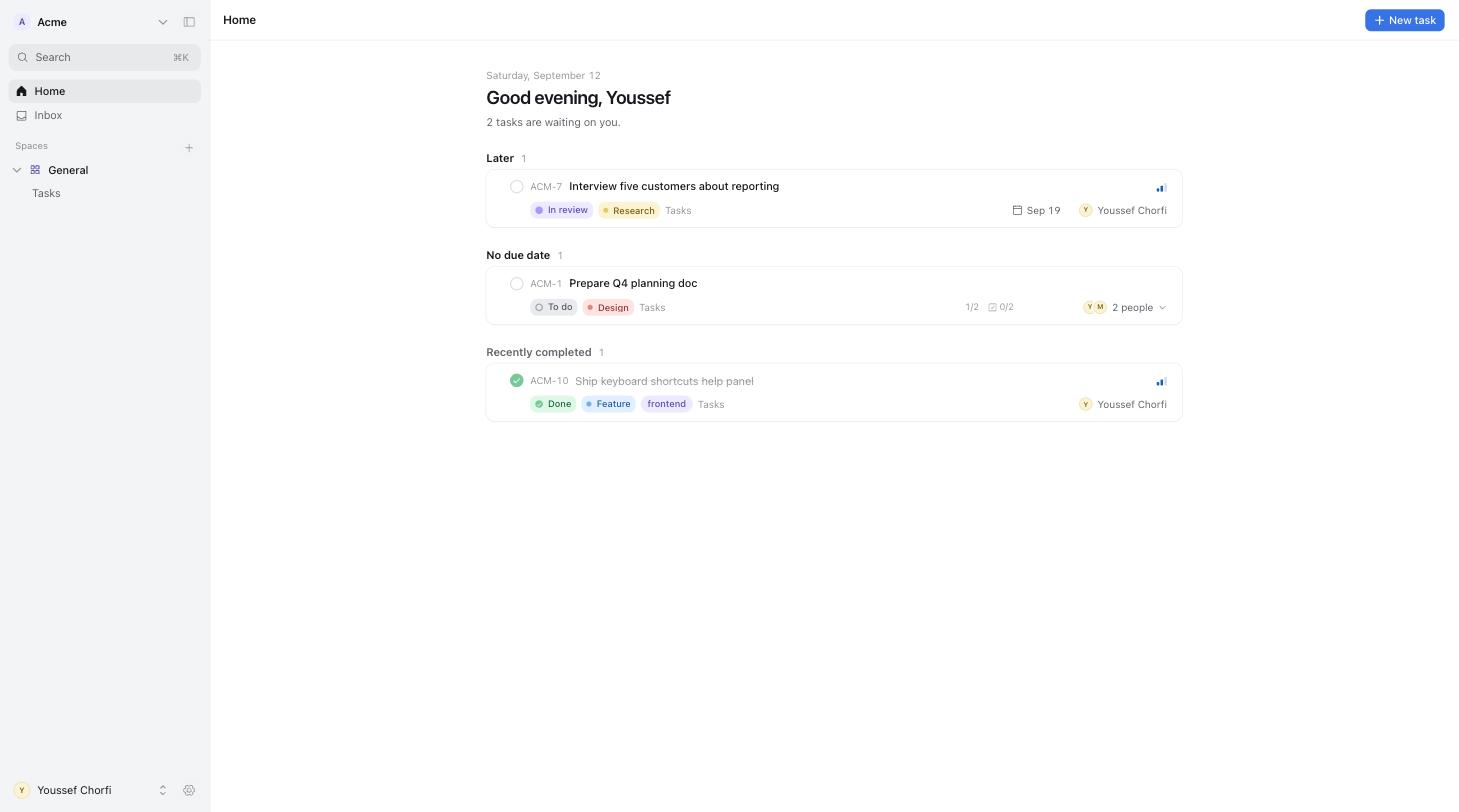
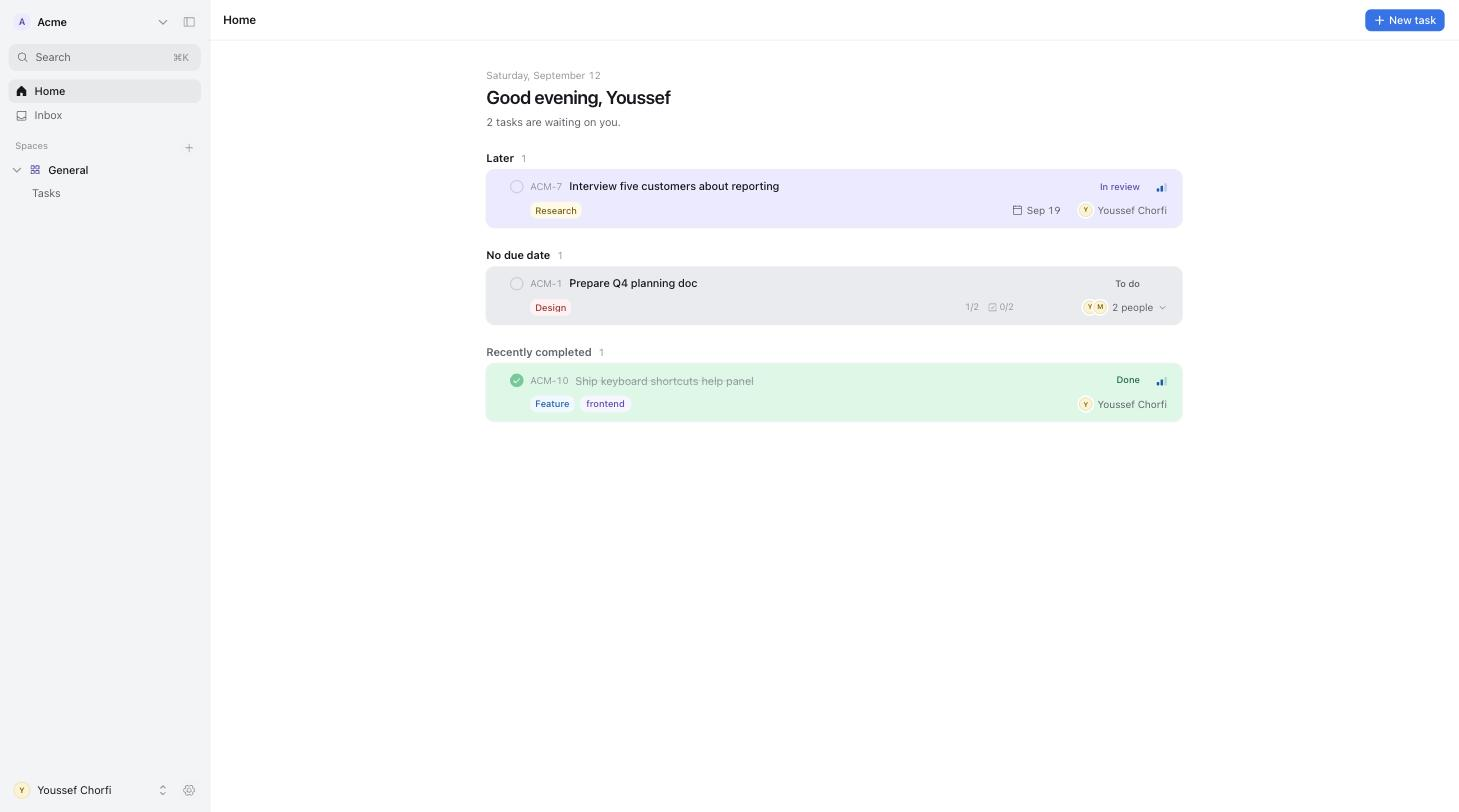
Task cards take their status colour; no status pill

diff --git a/apps/web/src/components/tasks/task-row.tsx b/apps/web/src/components/tasks/task-row.tsx
@@ -9,7 +9,7 @@ import { TagChip } from "./tag-chip";
 import { CategoryChip } from "./category-chip";
 import { DueLabel } from "./due-label";
 import { PriorityIcon } from "./priority-icon";
-import { StatusDot } from "./status-dot";
+import { asPastel } from "@/components/common/pastel";
 import { AssigneeLabel, AssigneePicker } from "./pickers/assignee-picker";
 import { DueDatePicker } from "./pickers/due-date-picker";
 import { PriorityPicker } from "./pickers/priority-picker";
@@ -21,7 +21,7 @@ import { cn } from "@/lib/utils";
 
 export type TaskRowProps = {
   task: TaskRowType;
-  /** Show the status pill (for views that aren't grouped by status). */
+  /** Name the status on the card (for views that aren't grouped by status). */
   showStatus?: boolean;
   /** Show which list the task belongs to (Home, search). */
   listName?: string;
@@ -55,6 +55,7 @@ export const TaskRow = forwardRef<HTMLDivElement, TaskRowProps>(function TaskRow
   const tags = task.task_tags.map((t) => t.tags).filter((t): t is NonNullable<typeof t> => !!t);
   const hasAssignees = task.task_assignees.length > 0;
   const recurrence = parseRecurrence(task.recurrence);
+  const tone = asPastel(status?.color);
 
   return (
     <div
@@ -67,15 +68,17 @@ export const TaskRow = forwardRef<HTMLDivElement, TaskRowProps>(function TaskRow
         if (e.key === "Enter" && e.target === e.currentTarget) openTask(task.id);
       }}
       className={cn(
-        "group/row relative flex flex-col gap-1 rounded-lg bg-surface py-2 pl-1 pr-3 text-[13px] shadow-card outline-none transition-shadow",
+        "group/row relative flex flex-col gap-1 rounded-lg py-2 pl-1 pr-3 text-[13px] shadow-card outline-none transition-shadow",
+        status ? `pastel-fill-${tone}` : "bg-surface",
         "hover:shadow-float focus-visible:ring-3 focus-visible:ring-ring/40",
         dragging && "opacity-30",
         overlay && "shadow-float",
         className,
       )}
       data-task-id={task.id}
+      data-tinted={status ? "" : undefined}
     >
-      {/* Line 1: check, number, title, priority */}
+      {/* Line 1: check, number, title, status, priority */}
       <div className="flex items-center gap-2">
         <div className="flex w-4 shrink-0 items-center justify-center self-stretch">
           {dragHandleProps && canEdit ? (
@@ -107,8 +110,7 @@ export const TaskRow = forwardRef<HTMLDivElement, TaskRowProps>(function TaskRow
             listId={task.list_id}
             disabled={!canEdit}
             trigger={
-              <button type="button" className={cn("flex h-5 shrink-0 items-center gap-1.5 rounded-md px-1.5 text-[11px] font-medium", `pastel-${status.color}`)} onClick={(e) => e.stopPropagation()}>
-                <StatusDot color={status.color} category={status.category} size={9} />
+              <button type="button" className={cn("flex h-5 shrink-0 items-center rounded-md px-1.5 text-[11px] font-medium hover:bg-surface/70", `pastel-text-${tone}`)} onClick={(e) => e.stopPropagation()}>
                 {status.name}
               </button>
             }
@@ -121,7 +123,7 @@ export const TaskRow = forwardRef<HTMLDivElement, TaskRowProps>(function TaskRow
           trigger={
             <button
               type="button"
-              className={cn("flex size-6 shrink-0 items-center justify-center rounded-md hover:bg-muted", task.priority === "none" && "opacity-0 group-hover/row:opacity-100 focus-visible:opacity-100")}
+              className={cn("flex size-6 shrink-0 items-center justify-center rounded-md hover:bg-surface/70", task.priority === "none" && "opacity-0 group-hover/row:opacity-100 focus-visible:opacity-100")}
               onClick={(e) => e.stopPropagation()}
               aria-label="Set priority"
             >
@@ -178,7 +180,7 @@ export const TaskRow = forwardRef<HTMLDivElement, TaskRowProps>(function TaskRow
             trigger={
               <button
                 type="button"
-                className={cn("flex h-6 items-center gap-1 rounded-md px-1.5 hover:bg-muted", !task.due_date && "text-ink-3 opacity-0 group-hover/row:opacity-100 focus-visible:opacity-100")}
+                className={cn("flex h-6 items-center gap-1 rounded-md px-1.5 hover:bg-surface/70", !task.due_date && "text-ink-3 opacity-0 group-hover/row:opacity-100 focus-visible:opacity-100")}
                 onClick={(e) => e.stopPropagation()}
                 aria-label="Set due date"
               >
@@ -201,7 +203,7 @@ export const TaskRow = forwardRef<HTMLDivElement, TaskRowProps>(function TaskRow
             trigger={
               <button
                 type="button"
-                className={cn("flex h-6 min-w-0 max-w-44 items-center gap-1 rounded-md px-1.5 hover:bg-muted", !hasAssignees && "text-ink-3 opacity-0 group-hover/row:opacity-100 focus-visible:opacity-100")}
+                className={cn("flex h-6 min-w-0 max-w-44 items-center gap-1 rounded-md px-1.5 hover:bg-surface/70", !hasAssignees && "text-ink-3 opacity-0 group-hover/row:opacity-100 focus-visible:opacity-100")}
                 onClick={(e) => e.stopPropagation()}
                 aria-label="Assign"
               >

diff --git a/apps/web/src/app/globals.css b/apps/web/src/app/globals.css
@@ -10,6 +10,9 @@
    borders, and a family of pastel accents for metadata. Exactly two "hard"
    colours exist: --action (blue) for the primary action on a screen and
    --destructive (red) for irreversible or urgent things.
+   Task cards are filled with their status colour (.pastel-fill-*); chips on
+   them use .pastel-chip so a same-hue chip still reads. Group containers and
+   board columns stay neutral so the cards carry the colour.
    ------------------------------------------------------------------------ */
 
 @theme inline {
@@ -257,15 +260,15 @@
 
 @layer utilities {
   /* Pastel utilities: .pastel-sky sets bg + fg; .pastel-dot-sky paints a dot. */
-  .pastel-gray { background: var(--pastel-gray-bg); color: var(--pastel-gray-fg); }
-  .pastel-rose { background: var(--pastel-rose-bg); color: var(--pastel-rose-fg); }
-  .pastel-peach { background: var(--pastel-peach-bg); color: var(--pastel-peach-fg); }
-  .pastel-butter { background: var(--pastel-butter-bg); color: var(--pastel-butter-fg); }
-  .pastel-mint { background: var(--pastel-mint-bg); color: var(--pastel-mint-fg); }
-  .pastel-aqua { background: var(--pastel-aqua-bg); color: var(--pastel-aqua-fg); }
-  .pastel-sky { background: var(--pastel-sky-bg); color: var(--pastel-sky-fg); }
-  .pastel-lavender { background: var(--pastel-lavender-bg); color: var(--pastel-lavender-fg); }
-  .pastel-blush { background: var(--pastel-blush-bg); color: var(--pastel-blush-fg); }
+  .pastel-gray { --pastel-bg: var(--pastel-gray-bg); background: var(--pastel-bg); color: var(--pastel-gray-fg); }
+  .pastel-rose { --pastel-bg: var(--pastel-rose-bg); background: var(--pastel-bg); color: var(--pastel-rose-fg); }
+  .pastel-peach { --pastel-bg: var(--pastel-peach-bg); background: var(--pastel-bg); color: var(--pastel-peach-fg); }
+  .pastel-butter { --pastel-bg: var(--pastel-butter-bg); background: var(--pastel-bg); color: var(--pastel-butter-fg); }
+  .pastel-mint { --pastel-bg: var(--pastel-mint-bg); background: var(--pastel-bg); color: var(--pastel-mint-fg); }
+  .pastel-aqua { --pastel-bg: var(--pastel-aqua-bg); background: var(--pastel-bg); color: var(--pastel-aqua-fg); }
+  .pastel-sky { --pastel-bg: var(--pastel-sky-bg); background: var(--pastel-bg); color: var(--pastel-sky-fg); }
+  .pastel-lavender { --pastel-bg: var(--pastel-lavender-bg); background: var(--pastel-bg); color: var(--pastel-lavender-fg); }
+  .pastel-blush { --pastel-bg: var(--pastel-blush-bg); background: var(--pastel-bg); color: var(--pastel-blush-fg); }
 
   .pastel-dot-gray { background: var(--pastel-gray-dot); }
   .pastel-dot-rose { background: var(--pastel-rose-dot); }
@@ -286,6 +289,21 @@
   .pastel-text-sky { color: var(--pastel-sky-fg); }
   .pastel-text-lavender { color: var(--pastel-lavender-fg); }
   .pastel-text-blush { color: var(--pastel-blush-fg); }
+
+  /* Chips on a tinted card sit on a paler version of their colour, so a chip
+     in the same hue as the card stays visible. */
+  [data-tinted] .pastel-chip { background: color-mix(in oklch, var(--pastel-bg) 45%, var(--surface)); }
+
+  /* Task cards: the card itself takes its status colour (text stays ink) */
+  .pastel-fill-gray { background: var(--pastel-gray-bg); }
+  .pastel-fill-rose { background: var(--pastel-rose-bg); }
+  .pastel-fill-peach { background: var(--pastel-peach-bg); }
+  .pastel-fill-butter { background: var(--pastel-butter-bg); }
+  .pastel-fill-mint { background: var(--pastel-mint-bg); }
+  .pastel-fill-aqua { background: var(--pastel-aqua-bg); }
+  .pastel-fill-sky { background: var(--pastel-sky-bg); }
+  .pastel-fill-lavender { background: var(--pastel-lavender-bg); }
+  .pastel-fill-blush { background: var(--pastel-blush-bg); }
 
   /* Group containers: a light wash of the group's colour */
   .pastel-wash-gray { background: color-mix(in oklch, var(--pastel-gray-bg) 55%, var(--surface)); }

diff --git a/apps/web/src/components/tasks/list-view.tsx b/apps/web/src/components/tasks/list-view.tsx
@@ -26,7 +26,7 @@ import { useMoveTask } from "@/lib/queries/tasks";
 import { useUi, type ListGroupBy } from "@/stores/ui";
 import { TaskRow } from "./task-row";
 import { StatusDot } from "./status-dot";
-import { ColorDot, asPastel } from "@/components/common/pastel";
+import { ColorDot } from "@/components/common/pastel";
 import { InlineTaskComposer } from "./inline-task-composer";
 import { NO_STATUS, findContainer, groupTasks, positionAt } from "./dnd";
 import { Button } from "@/components/ui/button";
@@ -178,7 +178,7 @@ export function ListView({ tasks, listId, groupBy = "status" }: { tasks: TaskRow
         ) : null}
       </div>
       <DragOverlay dropAnimation={{ duration: 160, easing: "cubic-bezier(0.22, 1, 0.36, 1)" }}>
-        {activeTask ? <TaskRow task={activeTask} overlay className="w-[min(720px,90vw)]" /> : null}
+        {activeTask ? <TaskRow task={activeTask} overlay showStatus={groupBy === "category"} className="w-[min(720px,90vw)]" /> : null}
       </DragOverlay>
     </DndContext>
   );
@@ -219,7 +219,7 @@ function Group({
   return (
     <section
       ref={setNodeRef}
-      className={cn("mx-3 mb-3 flex flex-col rounded-xl p-2 transition-shadow", `pastel-wash-${asPastel(color)}`, isOver && "ring-2 ring-action/30")}
+      className={cn("mx-3 mb-3 flex flex-col rounded-xl bg-muted/60 p-2 transition-shadow", isOver && "ring-2 ring-action/30")}
     >
       <header className="group/head flex h-8 items-center gap-2 px-1.5">
         <button
@@ -261,7 +261,7 @@ function Group({
           <div className="flex min-h-2 flex-col gap-1.5">
             {ids.map((tid) => {
               const t = tasksById.get(tid);
-              return t ? <SortableRow key={tid} task={t} /> : null;
+              return t ? <SortableRow key={tid} task={t} showStatus={groupBy === "category"} /> : null;
             })}
           </div>
         </SortableContext>
@@ -283,8 +283,8 @@ function Group({
   );
 }
 
-function SortableRow({ task }: { task: TaskRowType }) {
+function SortableRow({ task, showStatus }: { task: TaskRowType; showStatus?: boolean }) {
   const { attributes, listeners, setNodeRef, transform, transition, isDragging } = useSortable({ id: task.id });
   const style: React.CSSProperties = { transform: CSS.Translate.toString(transform), transition };
-  return <TaskRow ref={setNodeRef} task={task} style={style} dragging={isDragging} dragHandleProps={{ ...attributes, ...listeners } as React.HTMLAttributes<HTMLButtonElement>} />;
+  return <TaskRow ref={setNodeRef} task={task} showStatus={showStatus} style={style} dragging={isDragging} dragHandleProps={{ ...attributes, ...listeners } as React.HTMLAttributes<HTMLButtonElement>} />;
 }

diff --git a/apps/web/src/components/tasks/board-view.tsx b/apps/web/src/components/tasks/board-view.tsx
@@ -176,7 +176,7 @@ function Column({
       </header>
       <div
         ref={setNodeRef}
-        className={cn("flex min-h-0 flex-1 flex-col gap-2 overflow-y-auto rounded-xl p-2 transition-shadow scrollbar-thin", `pastel-wash-${asPastel(color)}`, isOver && "ring-2 ring-action/30")}
+        className={cn("flex min-h-0 flex-1 flex-col gap-2 overflow-y-auto rounded-xl bg-muted/60 p-2 transition-shadow scrollbar-thin", isOver && "ring-2 ring-action/30")}
       >
         <SortableContext items={ids} strategy={verticalListSortingStrategy}>
           {ids.map((tid) => {
@@ -201,7 +201,9 @@ function SortableCard({ task }: { task: TaskRowType }) {
 
 export function Card({ task, overlay }: { task: TaskRowType; overlay?: boolean }) {
   const { workspace } = useWorkspace();
+  const { byId } = useSpaceStatuses(task.list_id);
   const openTask = useOpenTask();
+  const status = task.status_id ? byId.get(task.status_id) : undefined;
   const done = !!task.completed_at;
   const tags = task.task_tags.map((t) => t.tags).filter((t): t is NonNullable<typeof t> => !!t);
   const subTotal = task.subtasks?.length ?? 0;
@@ -218,9 +220,11 @@ export function Card({ task, overlay }: { task: TaskRowType; overlay?: boolean }
       onClick={() => openTask(task.id)}
       onKeyDown={(e) => e.key === "Enter" && openTask(task.id)}
       className={cn(
-        "flex cursor-default flex-col gap-2 rounded-lg bg-surface p-3 text-[13px] shadow-card outline-none transition-shadow hover:shadow-float focus-visible:ring-3 focus-visible:ring-ring/40",
+        "flex cursor-default flex-col gap-2 rounded-lg p-3 text-[13px] shadow-card outline-none transition-shadow hover:shadow-float focus-visible:ring-3 focus-visible:ring-ring/40",
+        status ? `pastel-fill-${asPastel(status.color)}` : "bg-surface",
         overlay && "w-[256px] rotate-1 shadow-float",
       )}
+      data-tinted={status ? "" : undefined}
     >
       <div className="flex items-start gap-2">
         <span className={cn("min-w-0 flex-1 leading-snug", done && "text-ink-3 line-through")}>{task.title}</span>

diff --git a/apps/web/src/components/tasks/calendar-view.tsx b/apps/web/src/components/tasks/calendar-view.tsx
@@ -20,7 +20,7 @@ import { useMoveTask } from "@/lib/queries/tasks";
 import { useOpenTask } from "@/hooks/use-open-task";
 import { useUi } from "@/stores/ui";
 import { parseDate, toDateString } from "@/lib/dates";
-import { StatusDot } from "./status-dot";
+import { asPastel } from "@/components/common/pastel";
 import { Button } from "@/components/ui/button";
 import type { TaskRow as TaskRowType } from "@/lib/types";
 import { cn } from "@/lib/utils";
@@ -165,14 +165,14 @@ function Chip({ task, listId, overlay, className }: { task: TaskRowType; listId:
       {...listeners}
       onClick={() => openTask(task.id)}
       className={cn(
-        "flex h-6 w-full min-w-0 items-center gap-1.5 rounded-md bg-muted/70 px-1.5 text-left text-[12px] leading-none hover:bg-muted",
+        "flex h-6 w-full min-w-0 items-center rounded-md px-1.5 text-left text-[12px] leading-none hover:shadow-card",
+        status ? `pastel-fill-${asPastel(status.color)}` : "bg-muted/70",
         task.completed_at && "text-ink-3 line-through",
         isDragging && "opacity-30",
-        overlay && "w-40 bg-surface shadow-float",
+        overlay && "w-40 shadow-float",
         className,
       )}
     >
-      <StatusDot color={status?.color} category={status?.category} size={10} />
       <span className="truncate">{task.title}</span>
     </button>
   );

diff --git a/apps/web/src/components/tasks/tag-chip.tsx b/apps/web/src/components/tasks/tag-chip.tsx
@@ -5,7 +5,7 @@ import { cn } from "@/lib/utils";
 
 export function TagChip({ name, color, className, onRemove }: { name: string; color?: string | null; className?: string; onRemove?: () => void }) {
   return (
-    <span className={cn("inline-flex h-5 max-w-32 items-center gap-1 rounded-full px-2 text-[11px] font-medium leading-none", `pastel-${asPastel(color)}`, className)}>
+    <span className={cn("inline-flex h-5 max-w-32 items-center gap-1 rounded-full px-2 text-[11px] font-medium leading-none", `pastel-chip pastel-${asPastel(color)}`, className)}>
       <span className="truncate">{name}</span>
       {onRemove ? (
         <button type="button" onClick={onRemove} aria-label={`Remove ${name}`} className="-mr-1 rounded-full px-1 opacity-60 hover:opacity-100">

diff --git a/apps/web/src/components/tasks/category-chip.tsx b/apps/web/src/components/tasks/category-chip.tsx
@@ -8,7 +8,7 @@ import type { Category } from "@/lib/types";
 export function CategoryChip({ category, className }: { category: Pick<Category, "name" | "color">; className?: string }) {
   const c = asPastel(category.color);
   return (
-    <span className={cn("inline-flex h-5 max-w-36 items-center rounded-md px-1.5 text-[11px] font-medium leading-none", `pastel-${c}`, className)}>
+    <span className={cn("inline-flex h-5 max-w-36 items-center rounded-md px-1.5 text-[11px] font-medium leading-none", `pastel-chip pastel-${c}`, className)}>
       <span className="truncate">{category.name}</span>
     </span>
   );
